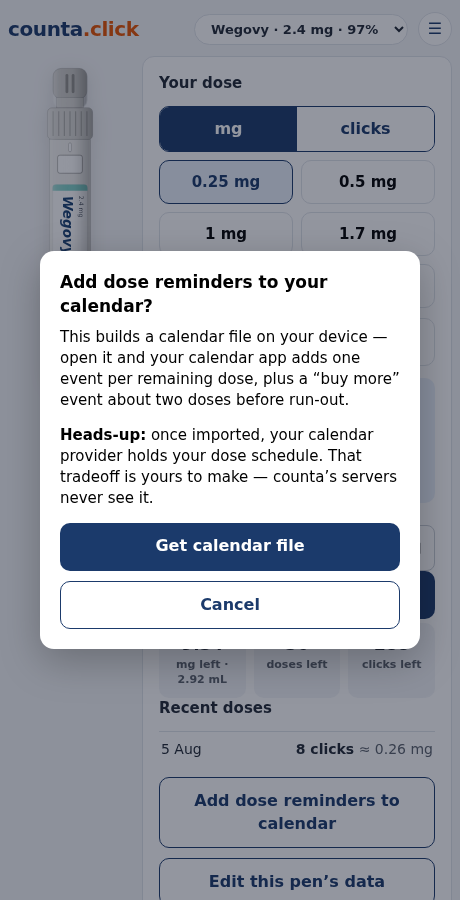
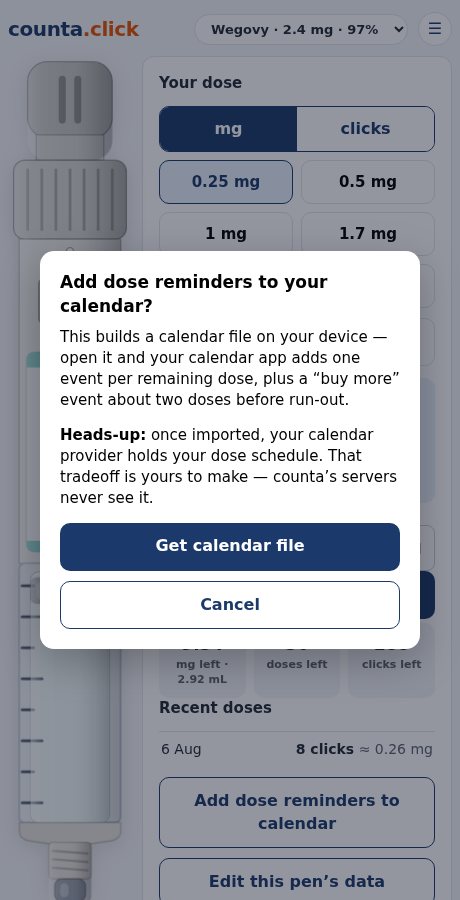
Fix the pen rendering black, and stop wasting two thirds of its canvas (#34)
* Fix the pen rendering black, and stop wasting two thirds of its canvas

Closes #17. Closes #20.

The pen was a black silhouette until a pen was saved, from two causes that
compounded. The strict CSP has no 'unsafe-inline' in style-src, which drops
inline `style` attributes — and that attribute was where the default theme
lived, so the custom properties were never set. The port from
assets/counta-pen.svg had also dropped every var() fallback, so an unset
property resolved to nothing and SVG fill fell back to its initial value,
black. With the fallbacks intact it would have degraded to a reasonable pen
and nobody would have filed a bug.

The theme now applies through CSSOM, which CSP doesn't police, and all fifteen
var() usages carry their fallback again. Adding 'unsafe-inline' would have
been the one-line fix and the wrong one: on an app where a single injected
script is total compromise, that trades a real boundary for a cosmetic
problem.

Separately, nothing repainted during setup, so a new account never themed the
preview and changing product on the edit screen left the old colours until
save. Setup now previews the selected product, including live updates while
typing a custom pen's name.

On sizing: the pen occupied 80 of 220 horizontal units, so 64% of the canvas
was empty margin, and since the graphic is sized by width the pen drew at
about a third of the space it was given. Widening the column earlier treated
[…]

diff --git a/app/javascript/app.js b/app/javascript/app.js
@@ -233,6 +233,7 @@ function enterSetup(fromDose) {
   $("dose-card").hidden = true;
   $("cancel-setup").hidden = !fromDose;
   // Archive/trash live on the edit screen ("settings"), never on new-pen setup.
+  previewSetupPen();
   $("archive-pen-edit").hidden = !editingPen || !!editingPen.archivedAt;
   $("trash-pen-edit").hidden = !editingPen;
   buildSwitcher();
@@ -426,11 +427,34 @@ async function setArchived(flag) {
 
 /* ============ pen svg (ported; hooks per counta-pen.svg header) ============ */
 const svg = () => $("pen-svg");
+// Applies a product's colours to the graphic. Separate from paintPen because
+// setup needs to preview a product before any pen exists — and because the
+// default theme can no longer ride in an inline style attribute: the CSP has
+// no 'unsafe-inline', so those attributes are dropped and every var() fell
+// back to nothing, rendering the pen black (issue #17).
+function paintTheme(theme) {
+  if (!theme) return;
+  const s = svg();
+  for (const [ k, v ] of Object.entries(theme)) s.style.setProperty(k, v);
+}
+
+// Previews the product currently selected in the setup form.
+function previewSetupPen() {
+  const key = $("f-product").value;
+  const p = productByKey(key);
+  if (!p) return; // products not loaded yet
+  paintTheme(p.theme);
+  const s = svg();
+  s.querySelector("#product-name").textContent =
+    key === "custom" ? ($("f-name").value || t("pen.default_name")) : p.name;
+  s.querySelector("#product-strength").textContent = p.strength || "";
+}
+
 function paintPen() {
   const d = pen();
   if (!d) return;
   const s = svg();
-  for (const [ k, v ] of Object.entries(d.theme)) s.style.setProperty(k, v);
+  paintTheme(d.theme);
   const n = s.querySelector("#product-name");
   n.textContent = d.name || t("pen.default_name");
   n.removeAttribute("textLength");
@@ -781,7 +805,9 @@ function wire() {
   $("unarchive-pen").addEventListener("click", () => setArchived(false));
 
   // setup
-  $("f-product").addEventListener("change", e => fillSetupForm(e.target.value));
+  $("f-product").addEventListener("change", e => { fillSetupForm(e.target.value); previewSetupPen(); });
+  // Typing a custom pen's name should show up on the label as you go.
+  $("f-name").addEventListener("input", previewSetupPen);
   $("f-capacity").addEventListener("change", e => {
     const p = productByKey($("f-product").value);
     $("custom-cap-wrap").hidden = e.target.value !== "custom";

diff --git a/spec/system/pen_graphic_spec.rb b/spec/system/pen_graphic_spec.rb
@@ -1,0 +1,104 @@
+# Issue #17: the pen rendered as a black silhouette until a pen was saved.
+#
+# Two causes: the strict CSP blocks inline `style` attributes, which is where
+# the default theme lived, and the port from assets/counta-pen.svg had dropped
+# every var() fallback — so an unset custom property resolved to nothing and
+# SVG fill fell back to its initial value, black.
+require "rails_helper"
+
+RSpec.describe "Pen graphic", type: :system do
+  before do
+    load Rails.root.join("db/seeds.rb")
+    visit "/"
+    add_virtual_authenticator
+    sign_up_through_first_run
+  end
+
+  def piston_top
+    # The piston has a 0.7s transition, so an immediate read catches it
+    # mid-flight — measure the settled position, not the animation.
+    page.execute_script("document.getElementById('piston-assembly').style.transition = 'none'")
+    page.evaluate_script("document.getElementById('piston').getBoundingClientRect().top")
+  end
+
+  def fill_of(id)
+    page.evaluate_script("getComputedStyle(document.getElementById('#{id}')).fill")
+  end
+
+  it "is themed on a brand-new account, before any pen exists" do
+    expect(page).to have_css("#setup-card:not([hidden])")
+
+    # The assertion that would have caught this the day the CSP landed.
+    expect(fill_of("body-shell")).not_to eq("rgb(0, 0, 0)"),
+      "the pen is rendering unthemed — check the CSP isn't dropping an inline style"
+    expect(fill_of("label-bg")).not_to eq("rgb(0, 0, 0)")
+  end
+
+  it "restyles when a different product is chosen" do
+    select "Wegovy 2.4 mg (4 doses · 9.6 mg · 3 mL)", from: "f-product"
+    wegovy = fill_of("body-shell")
+
+    select "Fiasp 100 U/mL (3 mL · 300 U)", from: "f-product"
+    fiasp = fill_of("body-shell")
+
+    expect(fiasp).not_to eq(wegovy),
+      "changing product didn't restyle the pen — the preview isn't repainting"
+    expect(fiasp).not_to eq("rgb(0, 0, 0)")
+  end
+
+  it "keeps its theme after saving, and when editing an existing pen" do
+    select "Fiasp 100 U/mL (3 mL · 300 U)", from: "f-product"
+    saved_theme = fill_of("body-shell")
+    save_pen
+
+    expect(fill_of("body-shell")).to eq(saved_theme)
+
+    click_button "Edit this pen’s data"
+    expect(fill_of("body-shell")).to eq(saved_theme),
+      "editing lost the pen's colours"
+  end
+
+  # The fill gauge is a claim about how much medicine is left, so it needs to
+  # be true. The piston is moved by a CSS transform in px on an SVG child,
+  # which resolves in USER units — so it's independent of the viewBox, but
+  # nothing pinned that until now.
+  it "moves the piston across the cartridge in proportion to what's left" do
+    select "Wegovy 2.4 mg (4 doses · 9.6 mg · 3 mL)", from: "f-product"
+    save_pen
+
+    top = piston_top
+    fill_in "f-dose", with: "2.4"
+    find("#f-dose").native.send_keys(:tab)
+    2.times { log_dose } # 148 of 296 clicks — half the pen
+    halfway = piston_top
+
+    2.times { log_dose } # empty
+    expect(find("#stats").text).to include("0", "clicks left")
+    bottom = piston_top
+
+    travel = bottom - top
+    expect(travel).to be > 0, "the piston never moved"
+    # Half-used lands halfway: the gauge is proportional.
+    expect(halfway - top).to be_within(travel * 0.05).of(travel / 2.0)
+
+    # ...and an empty pen puts the piston at the bottom of the cartridge.
+    # Proportionality alone isn't enough — a travel constant that's too small
+    # is still perfectly proportional while showing medicine that isn't there.
+    glass_bottom = page.evaluate_script(
+      "document.getElementById('cartridge-glass').getBoundingClientRect().bottom"
+    )
+    piston_bottom = page.evaluate_script(
+      "document.getElementById('piston').getBoundingClientRect().bottom"
+    )
+    expect(piston_bottom).to be_within(travel * 0.05).of(glass_bottom),
+      "an empty pen doesn't show the piston at the bottom — the gauge implies " \
+      "medicine that isn't there"
+  end
+
+  it "degrades to a sensible pen rather than black if a variable goes unset" do
+    # The var() fallbacks are the second half of the fix: without them any
+    # future path that fails to set a property paints the pen black again.
+    page.execute_script("document.getElementById('pen-svg').style.cssText = ''")
+    expect(fill_of("body-shell")).not_to eq("rgb(0, 0, 0)")
+  end
+end
